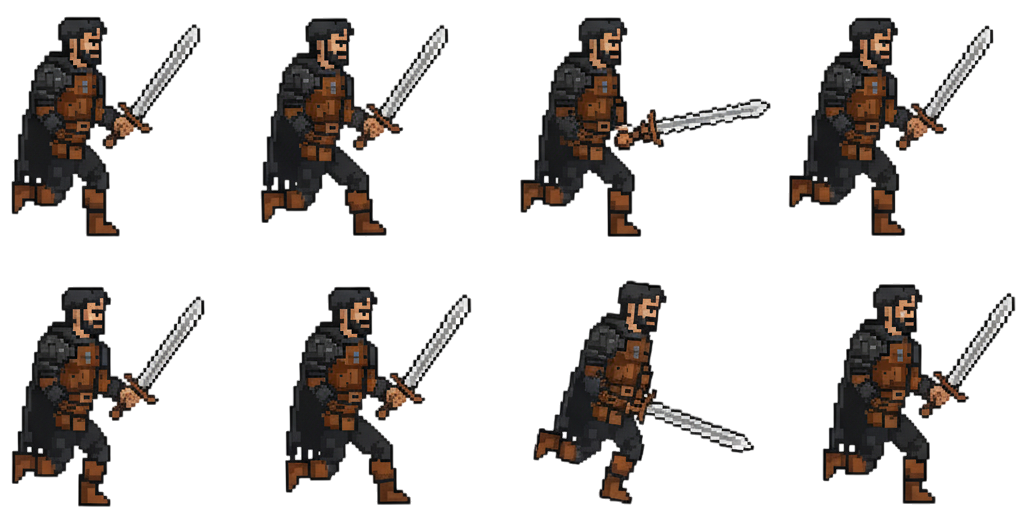
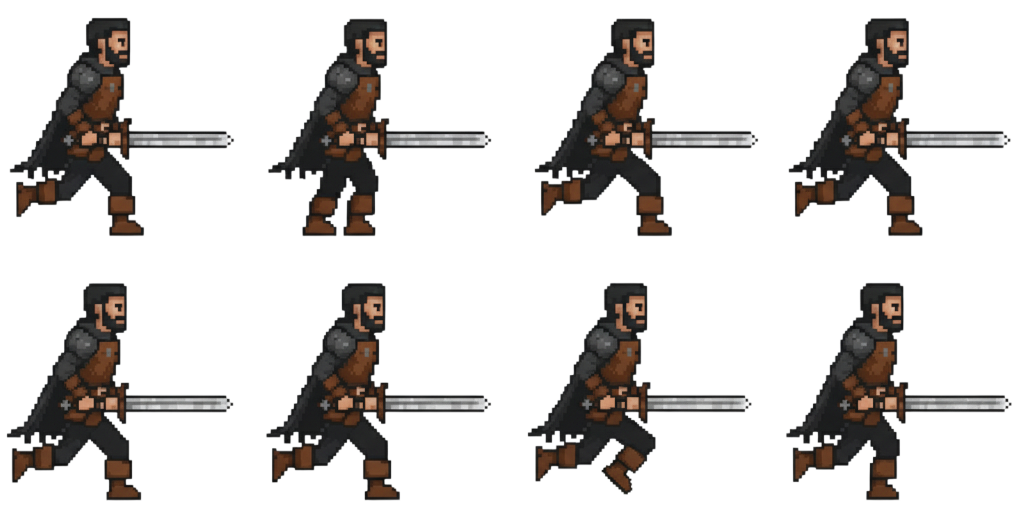
아직 플레이어 만드는 중..

diff --git a/main.py b/main.py
@@ -1,19 +1,15 @@
 from pico2d import *
 
 open_canvas()
-player = load_image('player_idle.png')
+player = load_image('playerGPT.png')
 
 width = 0
 height = 256
 while True:
     clear_canvas()
-    player.clip_draw(256 * width, height, 256, 256, 400, 300)
+    player.clip_draw(256 * width, 280 * 1, 256, 300, 400, 300)
     update_canvas()
 
     width = (width + 1) % 4
-    if width == 0 and height == 256:
-        height -= 256
-    elif width == 0 and height == 0:
-        height += 256
 
     delay(1)
